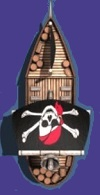
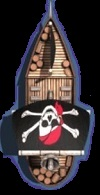
SPACE PIRATES VERSION 1.0

diff --git a/src/game/Graphics.java b/src/game/Graphics.java
@@ -22,7 +22,7 @@ public class Graphics {
 
     public void draw(){
         /**DRAWS THE MODEL ON THE SCENE*/
-        gc.setFill(Color.DARKSLATEBLUE);
+        gc.setFill(Color.BLACK);
         gc.fillRect(0,0,Main.screenX,Main.screenY);
 
 
@@ -35,13 +35,20 @@ public class Graphics {
         }
         else if(world.isStatus() == true) {
             gc.drawImage(new Image("pirateship2.JPG"),world.player.getPositionX(),world.player.getPositionY());
-            gc.setFill(Color.SANDYBROWN);
+
             for (int i = 0; i < 6; i++) {
+                if(i%2 == 0){
+                    gc.setFill(Color.RED);
+                }else if(i%3 == 0){
+                    gc.setFill(Color.LIMEGREEN);
+                }else{
+                    gc.setFill(Color.PAPAYAWHIP);
+                }
                 gc.fillOval(world.enemies.get(i).getPositionX(), world.enemies.get(i).getPositionY(), world.enemies.get(i).getWidth(), world.enemies.get(i).getHeight());
             }
             gc.setFill(new RadialGradient(0, 0.1, 0.55, 0.45, 0.06, true,
                     CycleMethod.REFLECT,
-                    new Stop(0.8, Color.DARKSLATEBLUE),
+                    new Stop(0.8, Color.BLACK),
                     new Stop(1, Color.AQUA)));
             gc.fillOval(world.maelstrom.getPositionX(),world.maelstrom.getPositionY(),world.maelstrom.getWidth(),world.maelstrom.getHeight());
 

diff --git a/src/world/Star.java b/src/world/Star.java
@@ -1,0 +1,13 @@
+package world;
+
+public class Star implements Object{
+    @Override
+    public int changeX(int change) {
+        return 0;
+    }
+
+    @Override
+    public int changeY(int change) {
+        return 0;
+    }
+}
